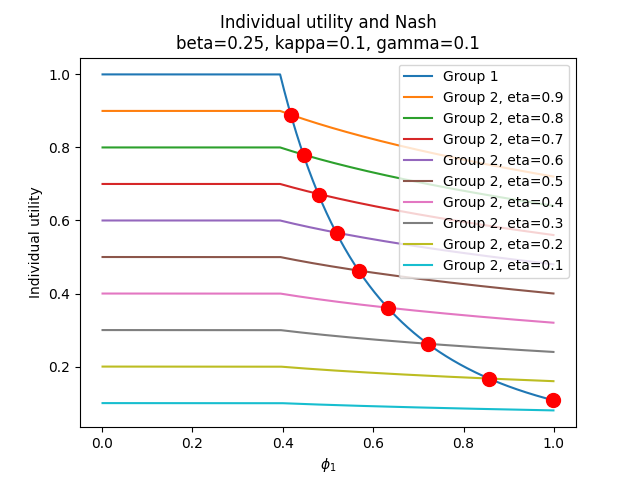
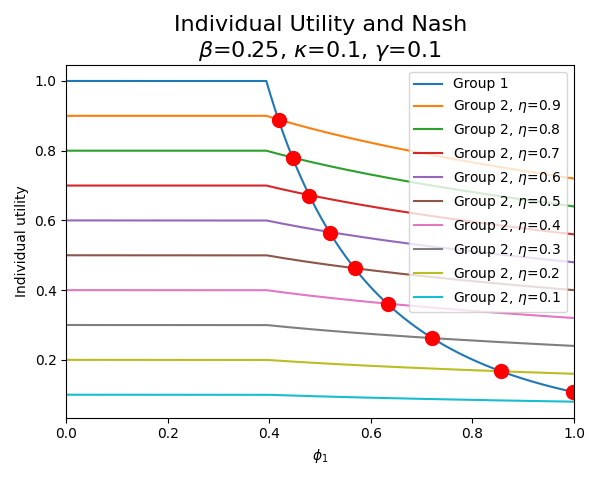
changed step size

diff --git a/Plottings.py b/Plottings.py
@@ -4,6 +4,7 @@ import numpy as np
 import seaborn as sns
 from ConvexProgram import phi_step
 import pandas as pd
+
 phi1_range = np.arange(phi_step, 1, phi_step)
 
 
@@ -24,8 +25,8 @@ def figure1_and_2():
     gamma = data[0]["gamma"]
     colorS1 = 'lightgreen'
     colorS2 = 'lightblue'
-    fig1 = plt.figure()
-    fig2 = plt.figure()
+    fig1 = plt.figure(figsize=(6, 4.8))
+    fig2 = plt.figure(figsize=(6, 4.8))
     ax1 = fig1.add_subplot(1, 1, 1)
     ax2 = fig2.add_subplot(1, 1, 1)
     IU1_plotted = False
@@ -40,25 +41,28 @@ def figure1_and_2():
         nash_value = IU1[d["NashIndex"]]
         # print(type(PaymentRatio))
         # print(len(social))
-        ax1.plot(phi1_range, social, label=f"eta={PaymentRatio}")
+        ax1.plot(phi1_range, social, label=fr"$\eta$={PaymentRatio}")
         # ax2.plot(phi1_range, IU1, color=colorS1)  # label=f"Ind utility 1={PaymentRatio}")
         # ax2.plot(phi1_range, IU2, color=colorS2, label=f"Ind utility 1={PaymentRatio}")
         # ax2.plot(nash_point, nash_value, 'ro', markersize=10, label=f"NE @ {PaymentRatio}")
         if not IU1_plotted:
             IU1_plotted = True
             ax2.plot(phi1_range, IU1, label="Group 1")  # label=f"Ind utility 1={PaymentRatio}")
-        ax2.plot(phi1_range, IU2, label=f"Group 2, eta={PaymentRatio}")
+        ax2.plot(phi1_range, IU2, label=rf"Group 2, $\eta$={PaymentRatio}")
         ax2.plot(nash_point, nash_value, 'ro', markersize=10)
-
+    ax1.set_xlim(0, 1)
+    ax2.set_xlim(0, 1)
     ax1.legend()
-    ax1.set_title(f"Social\nbeta={beta}, kappa={kappa}, gamma={gamma}")
+    ax1.set_title("Social\n"rf"$\beta$={beta}, $\kappa$={kappa}, $\gamma$={gamma}", fontsize=16)
     ax1.set_xlabel(r"$\phi_1$")
     ax1.set_ylabel("Social")
+    fig1.tight_layout()
     fig1.savefig("figCvx/fig1.png")
     ax2.legend()
-    ax2.set_title(f"Individual utility and Nash\nbeta={beta}, kappa={kappa}, gamma={gamma}")
+    ax2.set_title("Individual Utility and Nash\n"rf"$\beta$={beta}, $\kappa$={kappa}, $\gamma$={gamma}", fontsize=16)
     ax2.set_xlabel(r"$\phi_1$")
     ax2.set_ylabel("Individual utility")
+    fig2.tight_layout()
     fig2.savefig("figCvx/fig2.png")
     plt.close(fig1)
     plt.close(fig2)
@@ -98,16 +102,16 @@ def figure3():
     df = pd.DataFrame(table, index=kappa_list, columns=kappa_list)
     ax = sns.heatmap(df, cmap="YlOrRd")
     ax.invert_yaxis()
-    ax.set_title(fr"POA  $\beta={target_beta}$")
+    ax.set_title("POA\n"rf"$\beta={target_beta}$", fontsize=16)
     fig = ax.get_figure()
     plt.xlabel(r"$\kappa$")
-    plt.ylabel("payment ratio")
+    plt.ylabel(r"$\eta$")
     fig.savefig("figCvx/fig3.png")
 
 
 def main():
     figure1_and_2()
-    # figure3()
+    figure3()
 
 
 if __name__ == '__main__':

diff --git a/ConvexProgram.py b/ConvexProgram.py
@@ -612,7 +612,7 @@ def two_group_utility_cvxpy(beta=3 / 14, gamma=1 / 14, epsilon=0.0001, kappa=0.9
         if opt < totalU:
             opt = totalU
             phiOpt = phi1
-            OptIndex = len(INDIV1)-1
+            OptIndex = len(INDIV1) - 1
         # if abs(indS1 - indS2) < epsilon:
         #     NashInd1 = phi1
     drawfig = False
@@ -683,9 +683,7 @@ def two_group_utility_cvxpy(beta=3 / 14, gamma=1 / 14, epsilon=0.0001, kappa=0.9
         "POA": POA
     }
 
-
     return opt, NashValue, data
-
 
 
 def three_group_utility_cvxpy_tri(betas, gamma=1 / 14, epsilon=0.0001, payment2=1, payment3=1):
@@ -1300,17 +1298,23 @@ def three_group():
 
 def poa_two_group_fixedBeta(beta, gamma, dataList):
     phi_step = 0.1
-    beta_step = 0.1
-    beta_range = np.arange(beta_step, 1, beta_step)
-    pay_step = 0.10
-    pay_range = np.arange(pay_step, 1, pay_step)
+    kappa_step = 0.05
+    kappa_range = np.arange(kappa_step, 1 + kappa_step, kappa_step)
+    pay_step = 0.05
+    pay_range = np.arange(pay_step, 1 + pay_step, pay_step)
     beta_i = 0
     pay_i = 0
     POA_list = []
-    for beta_s in beta_range:
+    for kappa_s in kappa_range:
         POA_beta = []
         for payment2 in pay_range:
-            opt, Nash, data = two_group_utility_cvxpy(beta, gamma=1 / 10, epsilon=0.0001, kappa=beta_s, payment2=payment2)
+            opt, Nash, data = two_group_utility_cvxpy(
+                beta=beta,
+                gamma=1 / 10,
+                epsilon=0.0001,
+                kappa=kappa_s,
+                payment2=payment2
+            )
             POA_beta.append(opt / Nash)
             dataList.append(data)
         POA_list.append(POA_beta)
@@ -1320,7 +1324,7 @@ def poa_two_group_fixedBeta(beta, gamma, dataList):
     worst_beta, worst_pay = np.unravel_index(np.argmax(POA_array, axis=None), POA_array.shape)
     print(
         f'worst_POA={worst_POA} and worst_pay={worst_pay * pay_step + pay_step},worst_beta={beta},'
-        f'{worst_beta * beta_step + beta_step}')
+        f'{worst_beta * kappa_step + kappa_step}')
     return worst_POA, dataList
 
 
@@ -1332,7 +1336,7 @@ def poa_two_group():
     beta_range = np.arange(2 / 10, 3 / 10, beta_step)
     PoA_vs_Beta = []
     dataList = []
-    gamma = 1/10
+    gamma = 1 / 10
     for beta in beta_range:
         worst, dataList = poa_two_group_fixedBeta(beta, gamma, dataList)
         PoA_vs_Beta.append(worst)
@@ -1350,7 +1354,6 @@ def poa_two_group():
     ax1.legend()
     fig.savefig(f'figCvx/POAvsBeta.png')
     plt.show()
-
 
 
 def main():
